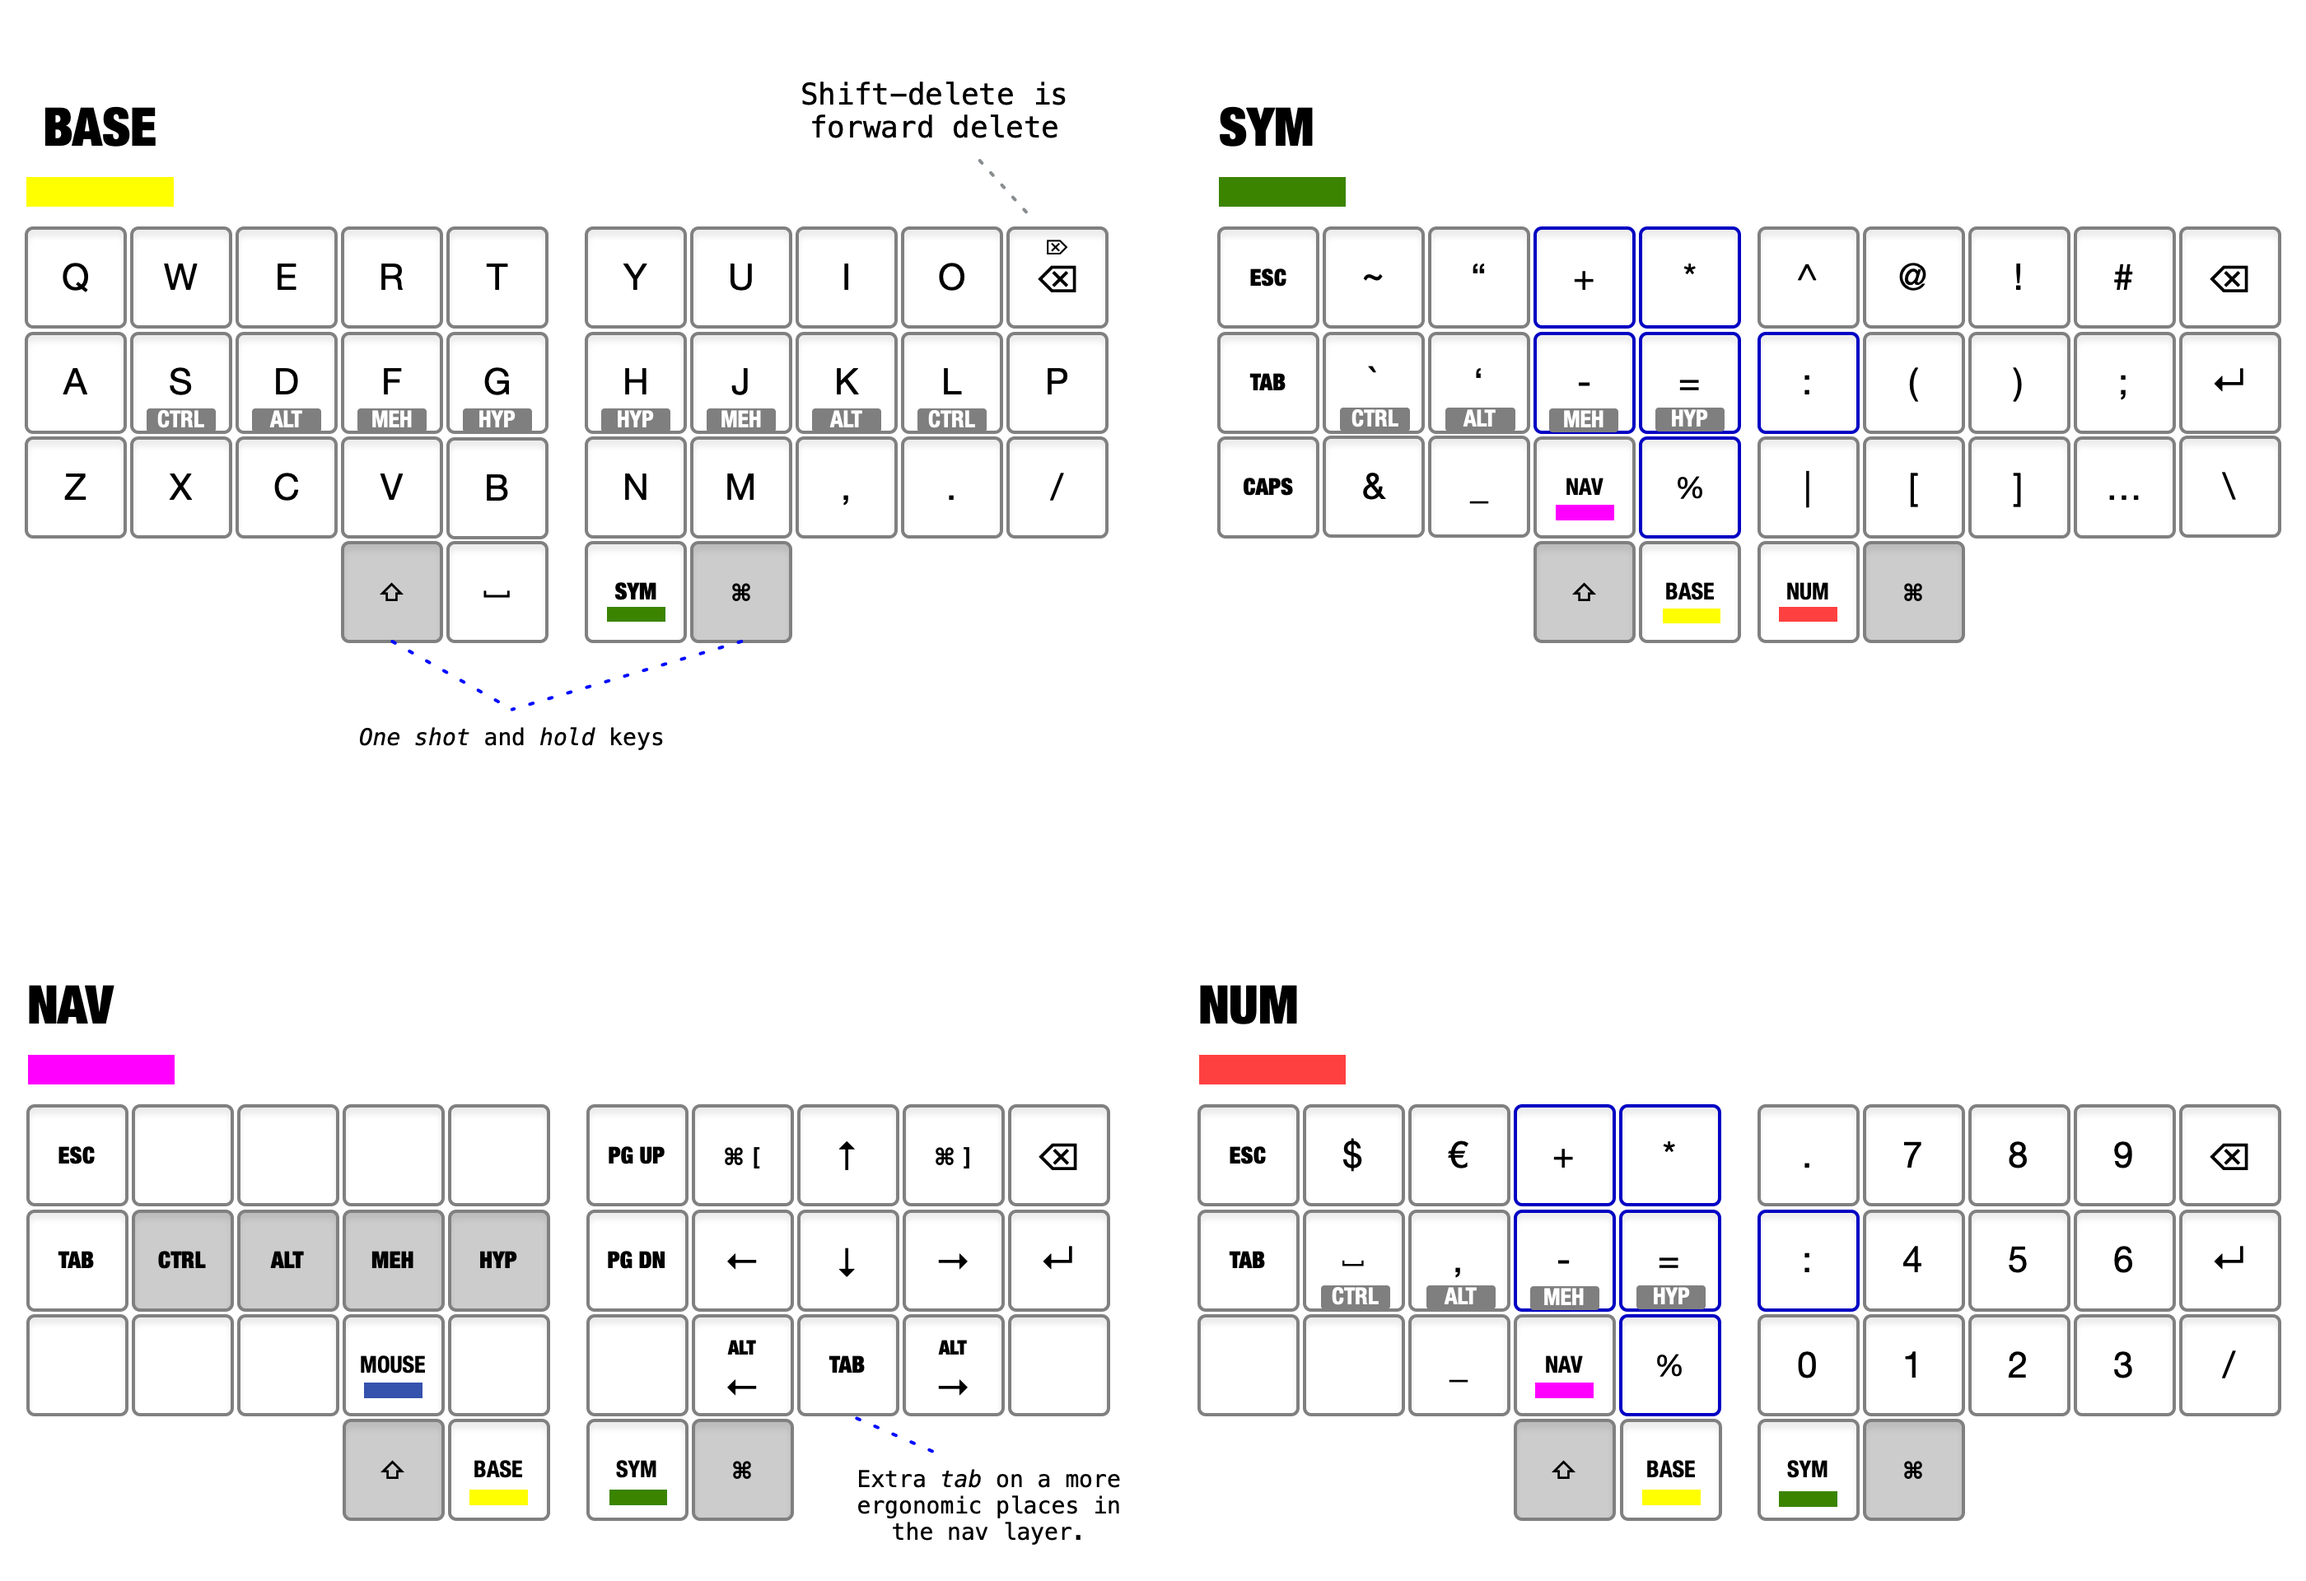
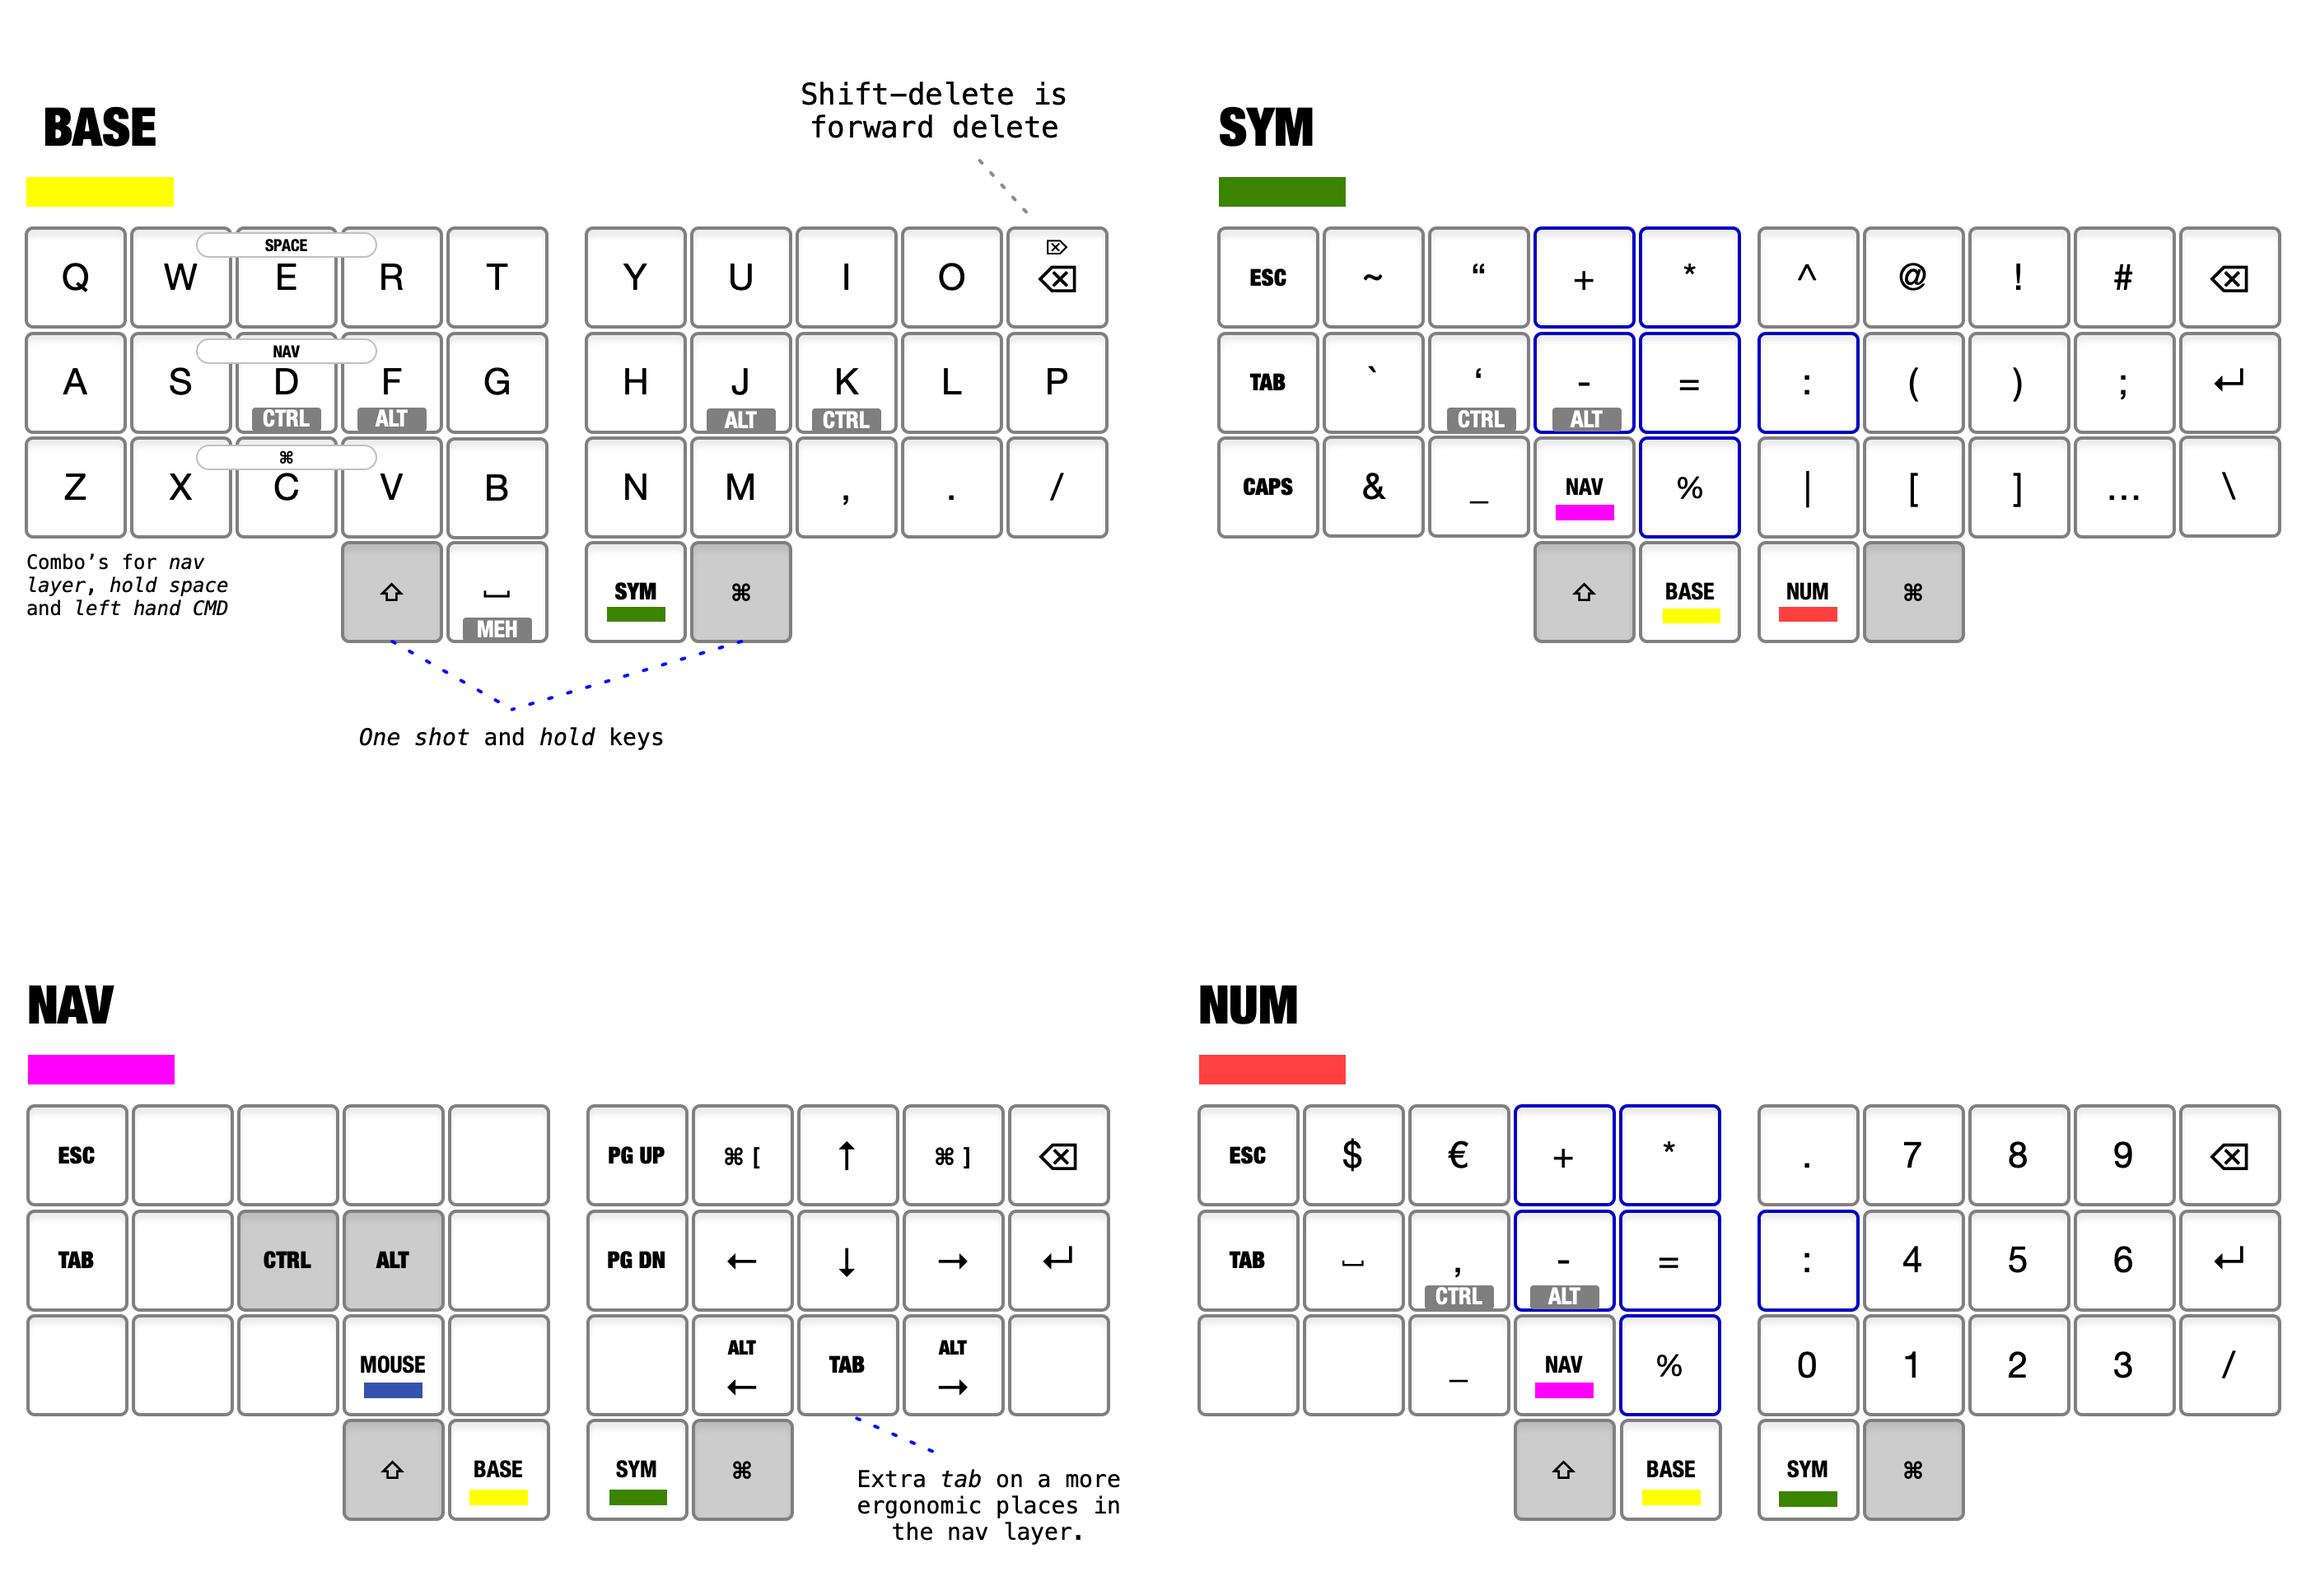
Meh on space and new combo's

diff --git a/moonlander/threesixbase.c b/moonlander/threesixbase.c
@@ -4,6 +4,29 @@
 
 */
 
+enum combos {
+	 WER_CBO,
+	 SDF_CBO,
+	 XCV_CBO,
+	 COMBO_LENGTH
+ };
+
+ uint16_t COMBO_LEN = COMBO_LENGTH;
+
+ const uint16_t PROGMEM wer_combo[]   = {KC_W, KC_E, KC_R, COMBO_END};
+ const uint16_t PROGMEM sdf_combo[]   = {KC_S, LCTL_T(KC_D), LALT_T(KC_F), COMBO_END};
+ const uint16_t PROGMEM xcv_combo[]   = {KC_X, KC_C, KC_V, COMBO_END};
+
+ combo_t key_combos[] = {
+		 // Make a space bar hold down available for dragging selections around. Not for general spacebar use.
+	  [WER_CBO] = COMBO(wer_combo, KC_SPACE),
+		// Quick access NAV Layer
+		[SDF_CBO] = COMBO(sdf_combo, TO(3)),
+		// Make a CMD key available on left side for easy one handed access
+		[XCV_CBO] = COMBO(xcv_combo, OSM(MOD_LGUI)),
+
+ };
+
 // # Layer 0
 
 // Top row
@@ -23,15 +46,15 @@
 // Mid row
 
 #define KR_0_2_1 KC_A
-#define KR_0_2_2 LCTL_T(KC_S)
-#define KR_0_2_3 LALT_T(KC_D)
-#define KR_0_2_4 MEH_T(KC_F)
+#define KR_0_2_2 KC_S
+#define KR_0_2_3 LCTL_T(KC_D)
+#define KR_0_2_4 LALT_T(KC_F)
 #define KR_0_2_5 KC_G
 //
 #define KR_0_2_6 KC_H
-#define KR_0_2_7 MEH_T(KC_J)
-#define KR_0_2_8 RALT_T(KC_K)
-#define KR_0_2_9 RCTL_T(KC_L)
+#define KR_0_2_7 RALT_T(KC_J)
+#define KR_0_2_8 RCTL_T(KC_K)
+#define KR_0_2_9 KC_L
 #define KR_0_2_10 KC_P
 
 // Bottom row
@@ -52,7 +75,7 @@
 // Thumb cluster
 
 #define KR_0_4_1 OSM(MOD_LSFT)
-#define KR_0_4_2 KC_SPACE
+#define KR_0_4_2 MEH_T(KC_SPACE)
 
 #define KR_0_4_3 TO(1)
 #define KR_0_4_4 OSM(MOD_LGUI)
@@ -75,9 +98,9 @@
 // Mid row
 
 #define KR_1_2_1 KC_TAB
-#define KR_1_2_2 LCTL_T(KC_GRV)
-#define KR_1_2_3 LALT_T(KC_QUOT)
-#define KR_1_2_4 MEH_T(KC_MINUS)
+#define KR_1_2_2 KC_GRV
+#define KR_1_2_3 LCTL_T(KC_QUOT)
+#define KR_1_2_4 LALT_T(KC_MINUS)
 #define KR_1_2_5 KC_PEQL
 //
 #define KR_1_2_6 LSFT(KC_SCLN) // :
@@ -122,9 +145,9 @@
 
 
 #define KR_2_2_1 KC_TAB
-#define KR_2_2_2 LCTL_T(KC_SPACE)
-#define KR_2_2_3 LALT_T(KC_COMM)
-#define KR_2_2_4 MEH_T(KC_MINUS)
+#define KR_2_2_2 KC_SPACE
+#define KR_2_2_3 LCTL_T(KC_COMM)
+#define KR_2_2_4 LALT_T(KC_MINUS)
 #define KR_2_2_5 KC_PEQL
 //
 #define KR_2_2_6 KC_COLN
@@ -169,9 +192,9 @@
 
 
 #define KR_3_2_1 KC_TAB
-#define KR_3_2_2 KC_LCTRL
-#define KR_3_2_3 KC_LALT
-#define KR_3_2_4 KC_MEH
+#define KR_3_2_2 KC_NO
+#define KR_3_2_3 KC_LCTRL
+#define KR_3_2_4 KC_LALT
 #define KR_3_2_5 KC_NO
 //
 #define KR_3_2_6 KC_PGDOWN
